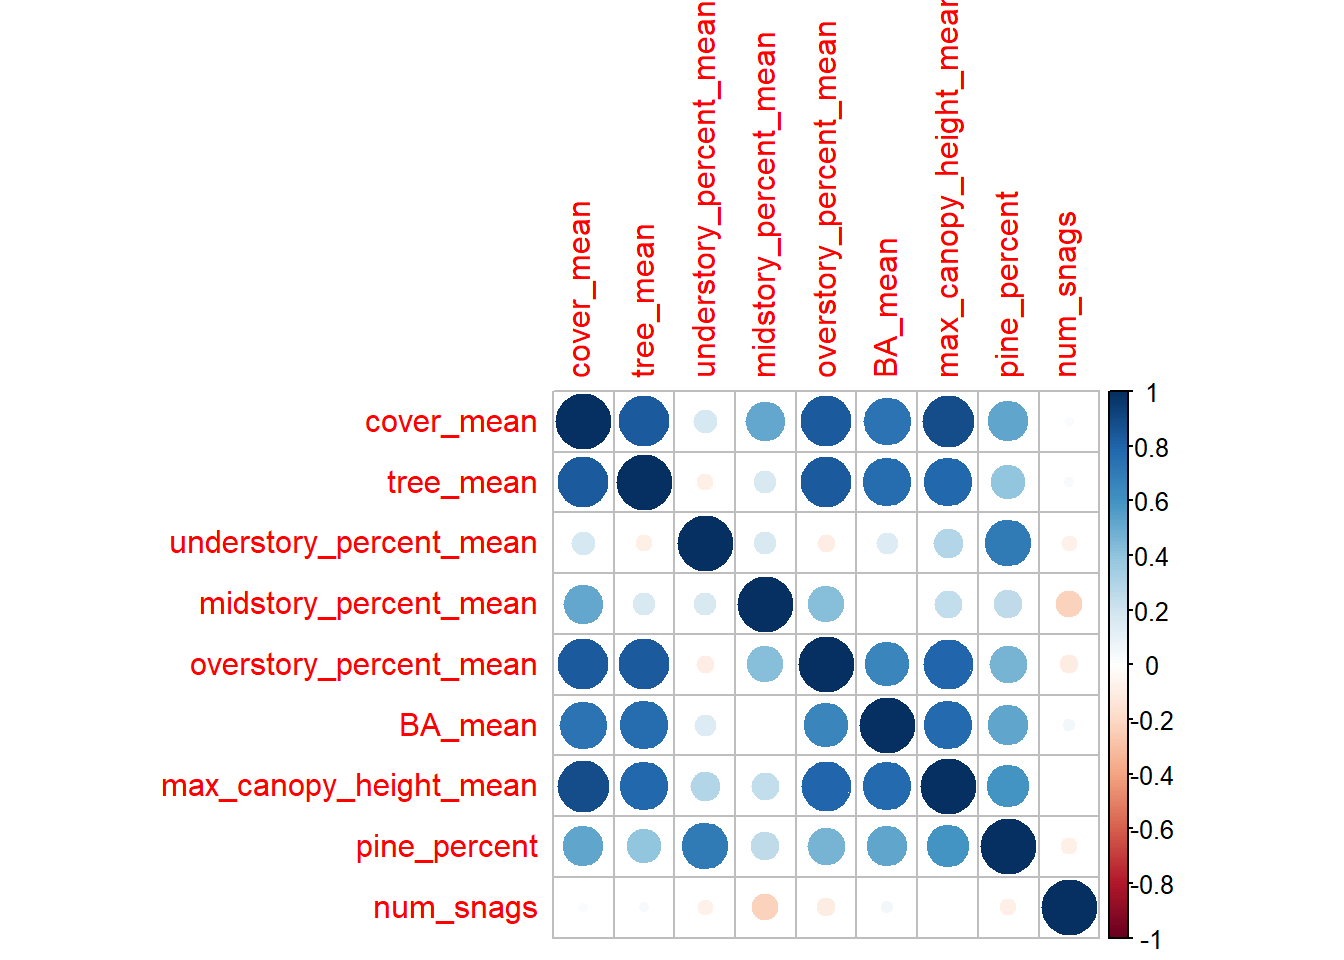
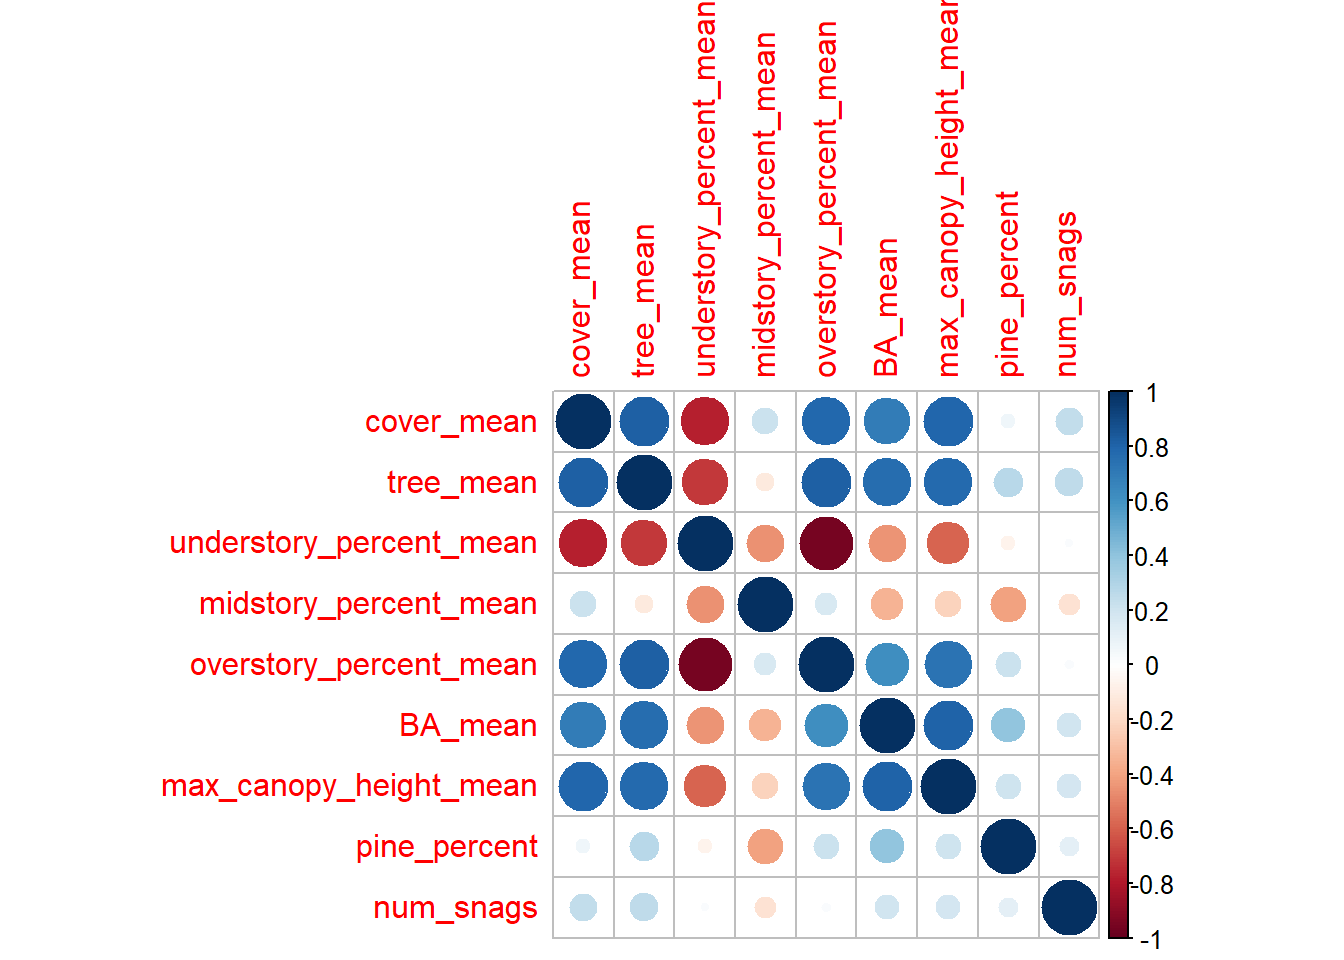
fixing some code on the veg page. lidar now works and snag data is complete.

diff --git a/docs/veg_data.html b/docs/veg_data.html
@@ -163,10 +163,10 @@ ul.task-list li input[type="checkbox"] {
 <h1>Terrestrial laser scanning</h1>
 <div class="cell">
 <div class="cell-output cell-output-stdout">
-<pre><code>To date, we have obtained  575  scans across all plots.</code></pre>
+<pre><code>To date, we have obtained  635  scans across all plots.</code></pre>
 </div>
 </div>
-<p>Terrestrial laser scanning (similar to LiDAR) is capable of deriving 200+ metrics from the environment in under two minutes by shooting lasers out in many directions and retrieving the resulting distance to conceptualize the structure of the environment. To date, we have obtained 575 scans across all plots. Belo are the results from those scans.</p>
+<p>Terrestrial laser scanning (similar to LiDAR) is capable of deriving 200+ metrics from the environment in under two minutes by shooting lasers out in many directions and retrieving the resulting distance to conceptualize the structure of the environment. To date, we have obtained 635 scans across all plots. Belo are the results from those scans.</p>
 <div class="cell">
 <div class="cell-output cell-output-stdout">
 <pre><code>
@@ -175,38 +175,38 @@ Table: Habitat variables for each plot.
 
 | Plot_ID| cover_mean| tree_mean| understory_percent_mean| midstory_percent_mean| overstory_percent_mean|   BA_mean| max_canopy_height_mean| pine_percent|geometry                       |
 |-------:|----------:|---------:|-----------------------:|---------------------:|----------------------:|---------:|----------------------:|------------:|:------------------------------|
-|       1|  0.6120823| 4.2857143|               0.3410709|             0.1714493|              0.4874798|  8.977654|               25.81564|     75.94595|MULTIPOINT ((787162 3409323... |
-|       2|  0.6540212| 6.0555556|               0.4616246|             0.0765242|              0.4618512| 12.527571|               25.54644|    100.00000|MULTIPOINT ((786367.1 34086... |
-|       3|  0.5179614| 3.8947368|               0.5357848|             0.0661411|              0.3980740| 11.074478|               27.16563|     88.23529|MULTIPOINT ((785359 3407886... |
-|       4|  0.5986098| 2.5555556|               0.4251836|             0.1448807|              0.4299356|  8.657914|               23.51678|     82.20339|MULTIPOINT ((786874.4 34076... |
-|       5|  0.7010658| 5.4500000|               0.4622512|             0.0986805|              0.4390683| 13.289256|               27.42495|     96.03960|MULTIPOINT ((785679.2 34067... |
-|       6|  0.6385592| 5.5000000|               0.5159679|             0.0988940|              0.3851381| 13.381203|               25.71575|     95.32238|MULTIPOINT ((787122 3406691... |
-|       7|  0.0000000| 0.0000000|               0.0000000|             0.0000000|              0.0000000|  0.000000|                0.00000|      0.00000|MULTIPOINT EMPTY               |
-|       8|  0.5500641| 3.9000000|               0.6138584|             0.1415437|              0.2445978|  5.579828|               20.60355|     66.04414|MULTIPOINT ((782429 3418483... |
-|       9|  0.5861884| 2.5714286|               0.6496354|             0.0818431|              0.2685216| 10.725143|               27.72633|     67.96537|MULTIPOINT ((784397.2 34186... |
-|      10|  0.5657924| 3.5714286|               0.6511306|             0.0450912|              0.3037781| 13.420231|               26.95919|     98.95833|MULTIPOINT ((785862.7 34187... |
-|      11|  0.6661425| 3.5000000|               0.6335720|             0.0941047|              0.2723233| 13.838789|               26.09950|     75.00000|MULTIPOINT ((785266.2 34179... |
-|      12|  0.5928217| 4.5714286|               0.6050781|             0.0631782|              0.3317438| 16.960981|               28.71938|     97.27891|MULTIPOINT ((785718.1 34167... |
-|      13|  0.4863689| 2.8947368|               0.5144449|             0.1007124|              0.3848427| 11.687829|               24.33274|     99.00266|MULTIPOINT ((784821.6 34162... |
-|      14|  0.5176373| 2.8421053|               0.6923826|             0.0731522|              0.2344652| 11.851740|               27.99384|     86.02941|MULTIPOINT ((785165.9 34153... |
-|      15|  0.2891661| 1.1428571|               0.7399194|             0.1023224|              0.1577582|  3.785119|               13.23414|     94.28571|MULTIPOINT ((817418.4 33950... |
-|      16|  0.3634980| 0.9000000|               0.6775914|             0.1700130|              0.1523956|  2.175580|               11.54350|     49.25373|MULTIPOINT ((818538.2 33947... |
-|      17|  0.3317604| 1.5714286|               0.7491501|             0.0791645|              0.1716855| 16.016199|               12.50429|    100.00000|MULTIPOINT ((817096.3 33942... |
-|      18|  0.3574319| 1.4736842|               0.7066372|             0.0599020|              0.2334609|  5.228432|               21.58889|     93.67089|MULTIPOINT ((820519.9 33939... |
-|      19|  0.3010618| 0.9523810|               0.7651440|             0.0974450|              0.1374110|  4.306883|               15.13376|     93.65079|MULTIPOINT ((816095.1 33936... |
-|      20|  0.2691893| 1.1428571|               0.7456773|             0.0791050|              0.1752177|  3.229035|               13.64990|     86.53846|MULTIPOINT ((818463.2 33934... |
-|      21|  0.0000000| 0.0000000|               0.0000000|             0.0000000|              0.0000000|  0.000000|                0.00000|      0.00000|MULTIPOINT EMPTY               |
-|      22|  0.4094859| 1.6000000|               0.4775843|             0.1612269|              0.3611889|  4.996181|               18.63970|     75.51020|MULTIPOINT ((819288.2 33927... |
-|      23|  0.3136426| 2.0500000|               0.7498649|             0.0565794|              0.1935557|  4.972005|               18.32080|     77.52809|MULTIPOINT ((818418.1 33923... |
-|      24|  0.6559702| 2.8000000|               0.4980977|             0.1533552|              0.3485471|  7.566445|               20.34905|     60.28369|MULTIPOINT ((764760.7 33966... |
-|      25|  0.4269941| 1.6190476|               0.7924680|             0.0662866|              0.1412453|  7.748766|               24.51838|     68.57143|MULTIPOINT ((766359.2 33965... |
-|      26|  0.4274035| 1.4761905|               0.7082870|             0.0879723|              0.2037407|  6.773214|               20.57314|     93.58974|MULTIPOINT ((766384.7 33954... |
-|      27|  0.3998056| 1.6190476|               0.7337093|             0.1001162|              0.1661745|  3.996483|               16.96019|     96.96970|MULTIPOINT ((763534.5 33953... |
-|      28|  0.4699089| 1.3333333|               0.7057257|             0.1298932|              0.1643811|  5.773654|               17.89267|     91.97080|MULTIPOINT ((764497.9 33952... |
-|      29|  0.5171767| 1.8095238|               0.6750168|             0.1696879|              0.1552953|  5.587277|               15.00095|     87.83784|MULTIPOINT ((767634.6 33950... |
-|      30|  0.4323957| 0.9500000|               0.6268138|             0.1386295|              0.2345567|  5.044118|               17.03875|     94.19355|MULTIPOINT ((764659.1 33943... |
-|      31|  0.2331792| 0.7368421|               0.8571703|             0.0426539|              0.1001758|  3.181818|               10.24589|     98.18182|MULTIPOINT ((765657.3 33940... |
-|      32|  0.3441856| 1.7500000|               0.7604760|             0.0538814|              0.1856426|  8.242403|               19.56385|     82.08955|MULTIPOINT ((766609.8 33941... |</code></pre>
+|       1|  0.6120823| 4.2857143|               0.3410709|             0.1714493|              0.4874798|  8.918582|               25.81564|     75.94595|MULTIPOINT ((787162 3409323... |
+|       2|  0.6540212| 6.0555556|               0.4616246|             0.0765242|              0.4618512| 12.564481|               25.54644|    100.00000|MULTIPOINT ((786367.1 34086... |
+|       3|  0.5179614| 3.8947368|               0.5357848|             0.0661411|              0.3980740| 11.052420|               27.16563|     88.23529|MULTIPOINT ((785359 3407886... |
+|       4|  0.5986098| 2.5555556|               0.4251836|             0.1448807|              0.4299356|  8.609381|               23.51678|     82.20339|MULTIPOINT ((786874.4 34076... |
+|       5|  0.7010658| 5.4500000|               0.4622512|             0.0986805|              0.4390683| 13.326489|               27.42495|     96.03960|MULTIPOINT ((785679.2 34067... |
+|       6|  0.6385592| 5.5000000|               0.5159679|             0.0988940|              0.3851381| 13.309988|               25.71575|     95.32238|MULTIPOINT ((787122 3406691... |
+|       7|  0.5109595| 5.4285714|               0.5601987|             0.0689392|              0.3708621| 11.261179|               24.67481|    100.00000|MULTIPOINT ((786852.1 34055... |
+|       8|  0.5500641| 3.8500000|               0.6138584|             0.1415437|              0.2445978|  5.582776|               20.60355|     66.04414|MULTIPOINT ((782429 3418483... |
+|       9|  0.5861884| 2.6190476|               0.6496354|             0.0818431|              0.2685216| 10.774183|               28.00024|     67.96537|MULTIPOINT ((784397.2 34186... |
+|      10|  0.5657924| 3.5714286|               0.6511306|             0.0450912|              0.3037781| 13.438765|               26.95919|     98.95833|MULTIPOINT ((785862.7 34187... |
+|      11|  0.6271094| 3.5238095|               0.6518783|             0.0723386|              0.2757832| 14.268209|               26.39195|     87.98283|MULTIPOINT ((785266.2 34179... |
+|      12|  0.5928217| 4.5714286|               0.6050781|             0.0631782|              0.3317438| 16.988551|               28.71938|     97.27891|MULTIPOINT ((785718.1 34167... |
+|      13|  0.4863689| 2.8947368|               0.5144449|             0.1007124|              0.3848427| 11.634267|               24.33274|     99.00266|MULTIPOINT ((784821.6 34162... |
+|      14|  0.5176373| 2.8421053|               0.6923826|             0.0731522|              0.2344652| 12.101980|               27.99384|     86.02941|MULTIPOINT ((785165.9 34153... |
+|      15|  0.2891661| 1.1428571|               0.7399194|             0.1023224|              0.1577582|  3.810238|               13.23414|     94.28571|MULTIPOINT ((817418.4 33950... |
+|      16|  0.3634980| 0.9000000|               0.6775914|             0.1700130|              0.1523956|  2.317756|               11.54350|     49.25373|MULTIPOINT ((818538.2 33947... |
+|      17|  0.3072008| 1.3333333|               0.7729110|             0.0765233|              0.1505657| 12.571259|               12.40824|     96.29630|MULTIPOINT ((817096.3 33942... |
+|      18|  0.3574319| 1.4736842|               0.7066372|             0.0599020|              0.2334609|  5.276747|               21.58889|     93.67089|MULTIPOINT ((820519.9 33939... |
+|      19|  0.3010618| 0.9523810|               0.7651440|             0.0974450|              0.1374110|  4.326497|               15.13376|     93.65079|MULTIPOINT ((816095.1 33936... |
+|      20|  0.2691893| 1.1904762|               0.7456773|             0.0791050|              0.1752177|  3.226501|               13.67062|     86.53846|MULTIPOINT ((818463.2 33934... |
+|      21|  0.3309525| 0.9047619|               0.8035900|             0.0987552|              0.0976548|  3.360577|               13.48562|     38.75000|MULTIPOINT ((817513.8 33928... |
+|      22|  0.4094859| 1.6000000|               0.4775843|             0.1612269|              0.3611889|  4.936469|               18.63970|     75.51020|MULTIPOINT ((819288.2 33927... |
+|      23|  0.3136426| 2.0500000|               0.7498649|             0.0565794|              0.1935557|  5.013390|               18.32080|     77.52809|MULTIPOINT ((818418.1 33923... |
+|      24|  0.6559702| 2.8000000|               0.4980977|             0.1533552|              0.3485471|  7.539725|               20.34905|     60.28369|MULTIPOINT ((764760.7 33966... |
+|      25|  0.4269941| 1.6190476|               0.7924680|             0.0662866|              0.1412453|  7.669954|               24.51838|     68.57143|MULTIPOINT ((766359.2 33965... |
+|      26|  0.4274035| 1.4761905|               0.7082870|             0.0879723|              0.2037407|  6.741717|               20.57314|     93.58974|MULTIPOINT ((766384.7 33954... |
+|      27|  0.3998056| 1.6190476|               0.7337093|             0.1001162|              0.1661745|  3.987555|               16.96019|     96.96970|MULTIPOINT ((763534.5 33953... |
+|      28|  0.4698986| 1.2666667|               0.7058376|             0.1298118|              0.1643506|  5.656607|               17.90907|     91.97080|MULTIPOINT ((764497.9 33952... |
+|      29|  0.5171767| 1.8095238|               0.6750168|             0.1696879|              0.1552953|  5.530929|               15.00095|     87.83784|MULTIPOINT ((767634.6 33950... |
+|      30|  0.4323957| 0.9500000|               0.6268138|             0.1386295|              0.2345567|  5.159311|               17.03875|     94.19355|MULTIPOINT ((764659.1 33943... |
+|      31|  0.2331792| 0.7368421|               0.8571703|             0.0426539|              0.1001758|  3.151814|               10.24589|     98.18182|MULTIPOINT ((765657.3 33940... |
+|      32|  0.3441856| 1.7500000|               0.7604760|             0.0538814|              0.1856426|  8.254096|               19.56385|     82.08955|MULTIPOINT ((766609.8 33941... |</code></pre>
 </div>
 </div>
 </section>
@@ -223,7 +223,7 @@ Table: Habitat variables for each plot.
 </div>
 <p>There’s a lot of life after death when thinking about dead trees. In the early stages of death, dead trees may become hot-spots of food for woodpeckers as beetle larvae eat at the more susceptible wood. But after a few months, this resource decreases as beetles mature and consume most of the nutritious parts of the tree. Then, over many years the tree decomposes and become a nesting resource for cavity-nesting birds and other taxons.</p>
 <p>Here, we describe the quality and quantity of these snag resources. There are many ways to quantify a dead tree including decay class, diameter at breast height (DBH), amount of dead wood, amount of bark, and species. This diversity of snag characteristics within a plot my lead to more diversity within the plot. Thus, I will reduce this dimensionality in the data using multivariate statistics. This will result in a one or two metrics that can be used for further analysis.</p>
-<p>We have sampled most of all plots for the presence of dead trees. On average, there are 22.41 snags per plot (range: 0 - 54) for a total of 717 snags recorded across all plots.</p>
+<p>We have sampled most of all plots for the presence of dead trees. On average, there are 23.25 snags per plot (range: 0 - 54) for a total of 744 snags recorded across all plots.</p>
 <div class="cell">
 <div class="cell-output cell-output-stdout">
 <pre><code>
@@ -239,7 +239,7 @@ Table: Number of snags per plot.
 |       5|        29|
 |       6|        34|
 |       7|        41|
-|       8|         0|
+|       8|        27|
 |       9|        25|
 |      10|        22|
 |      11|        37|
